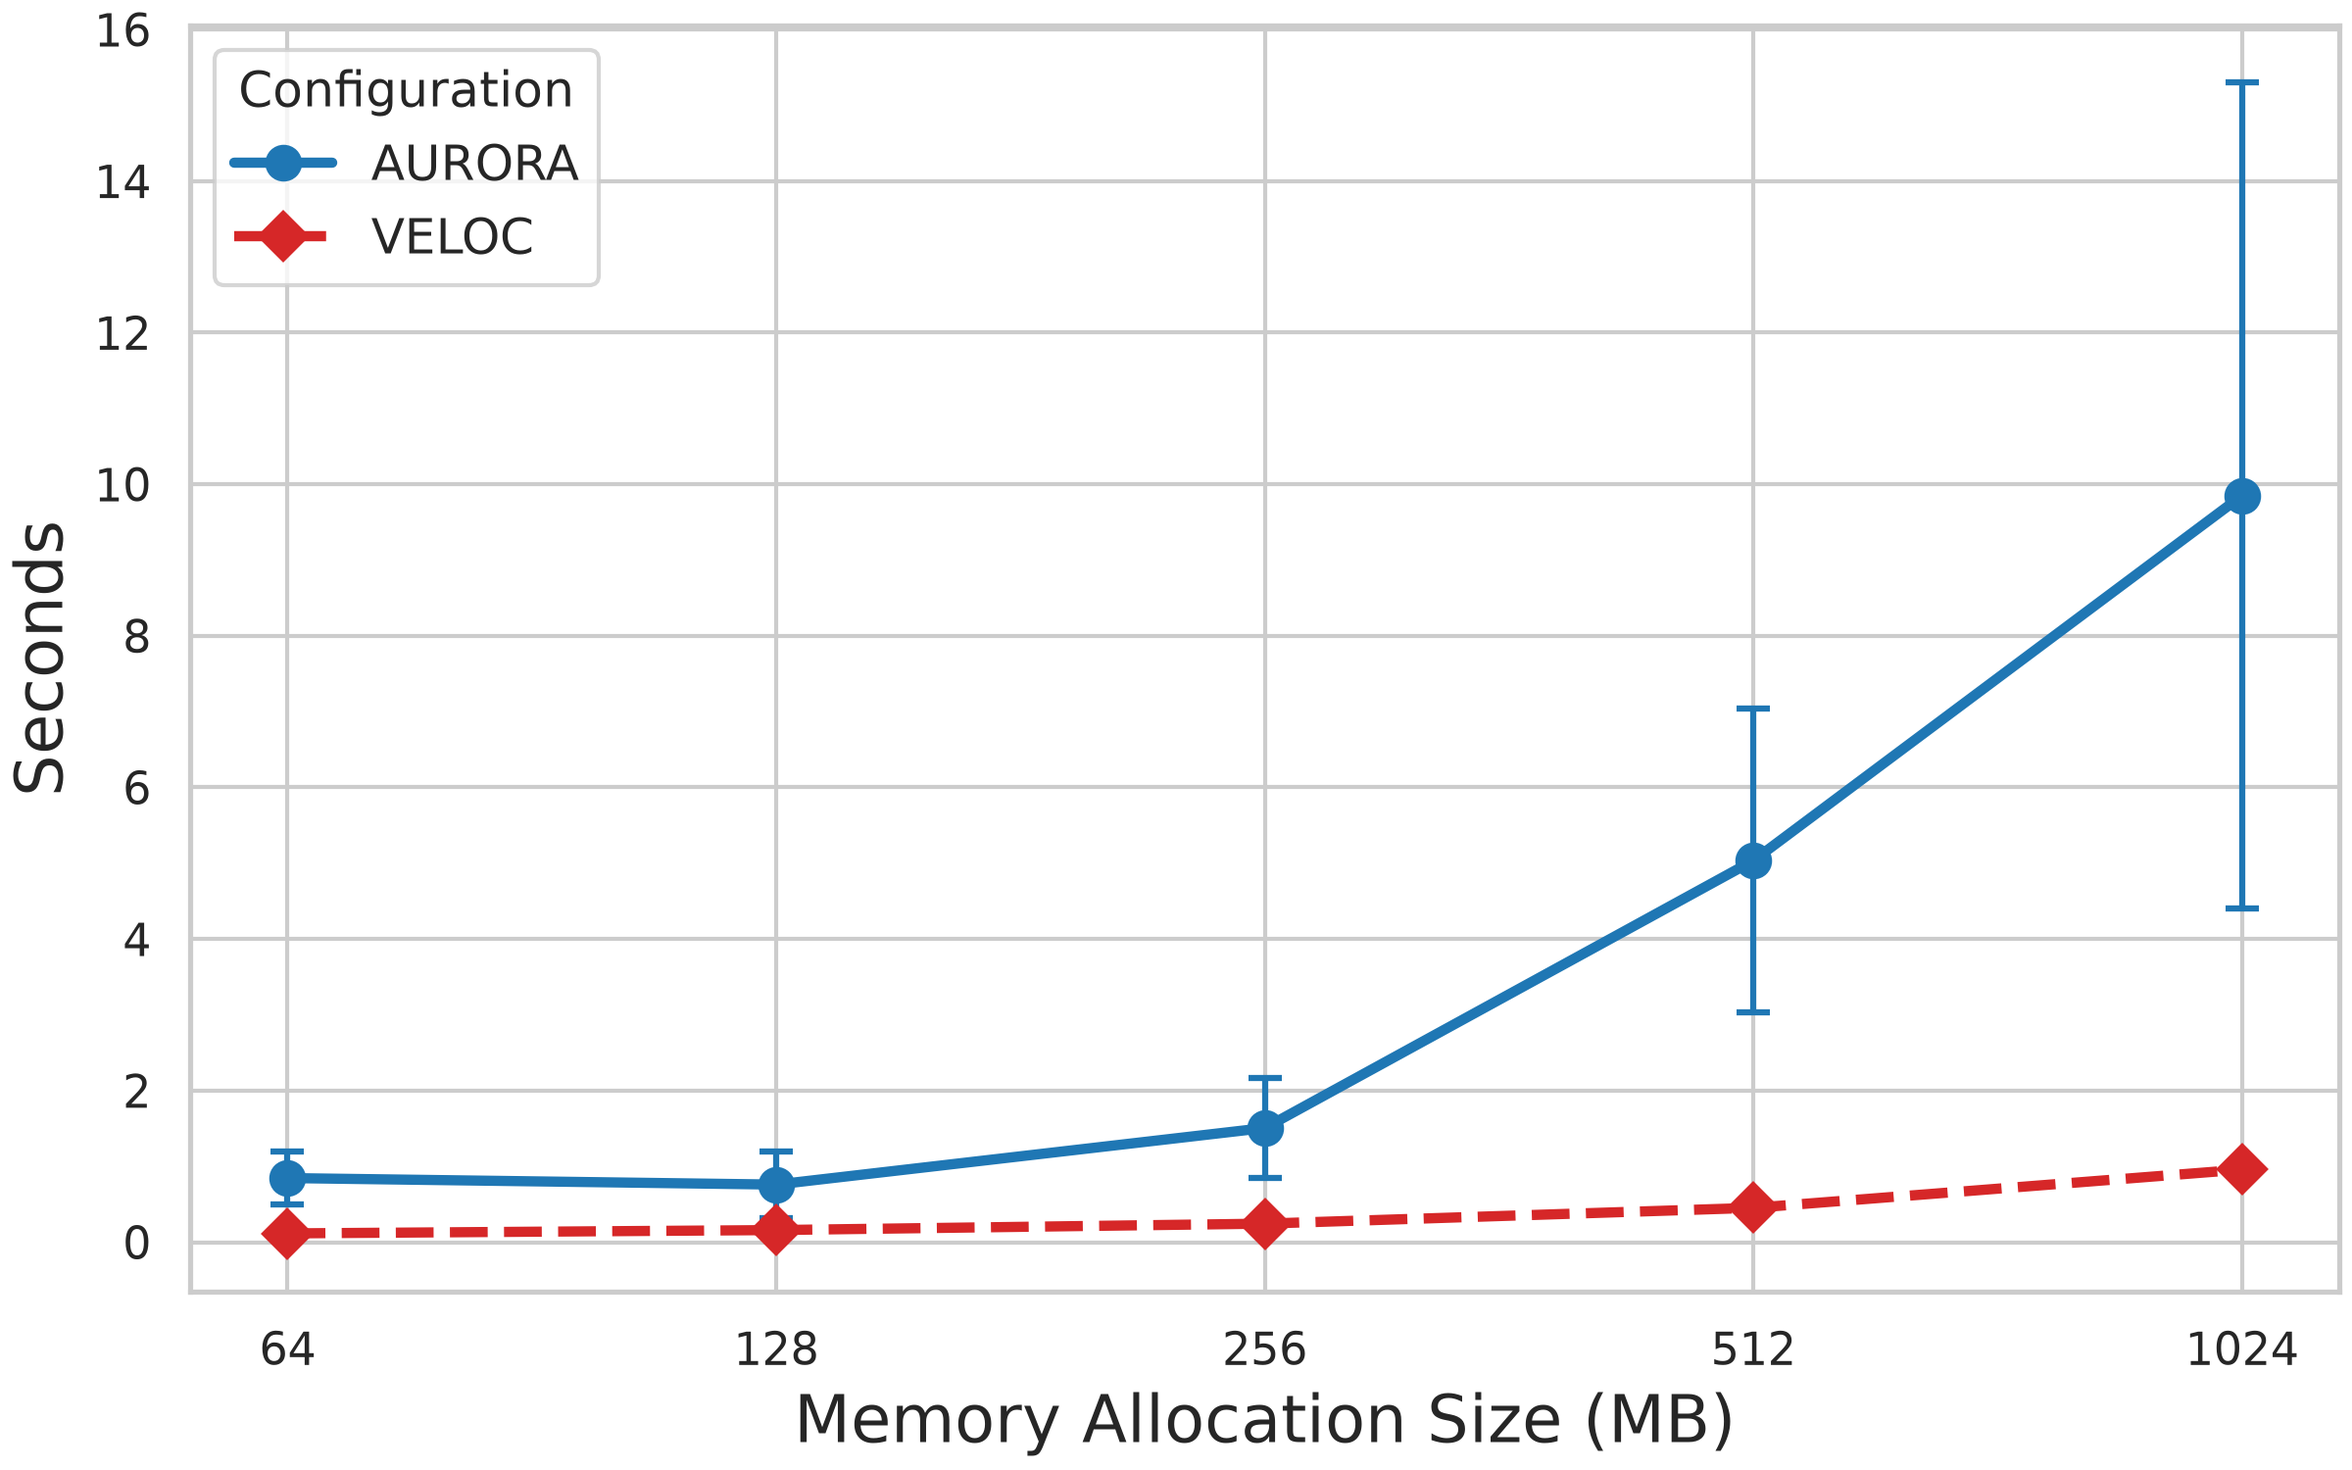
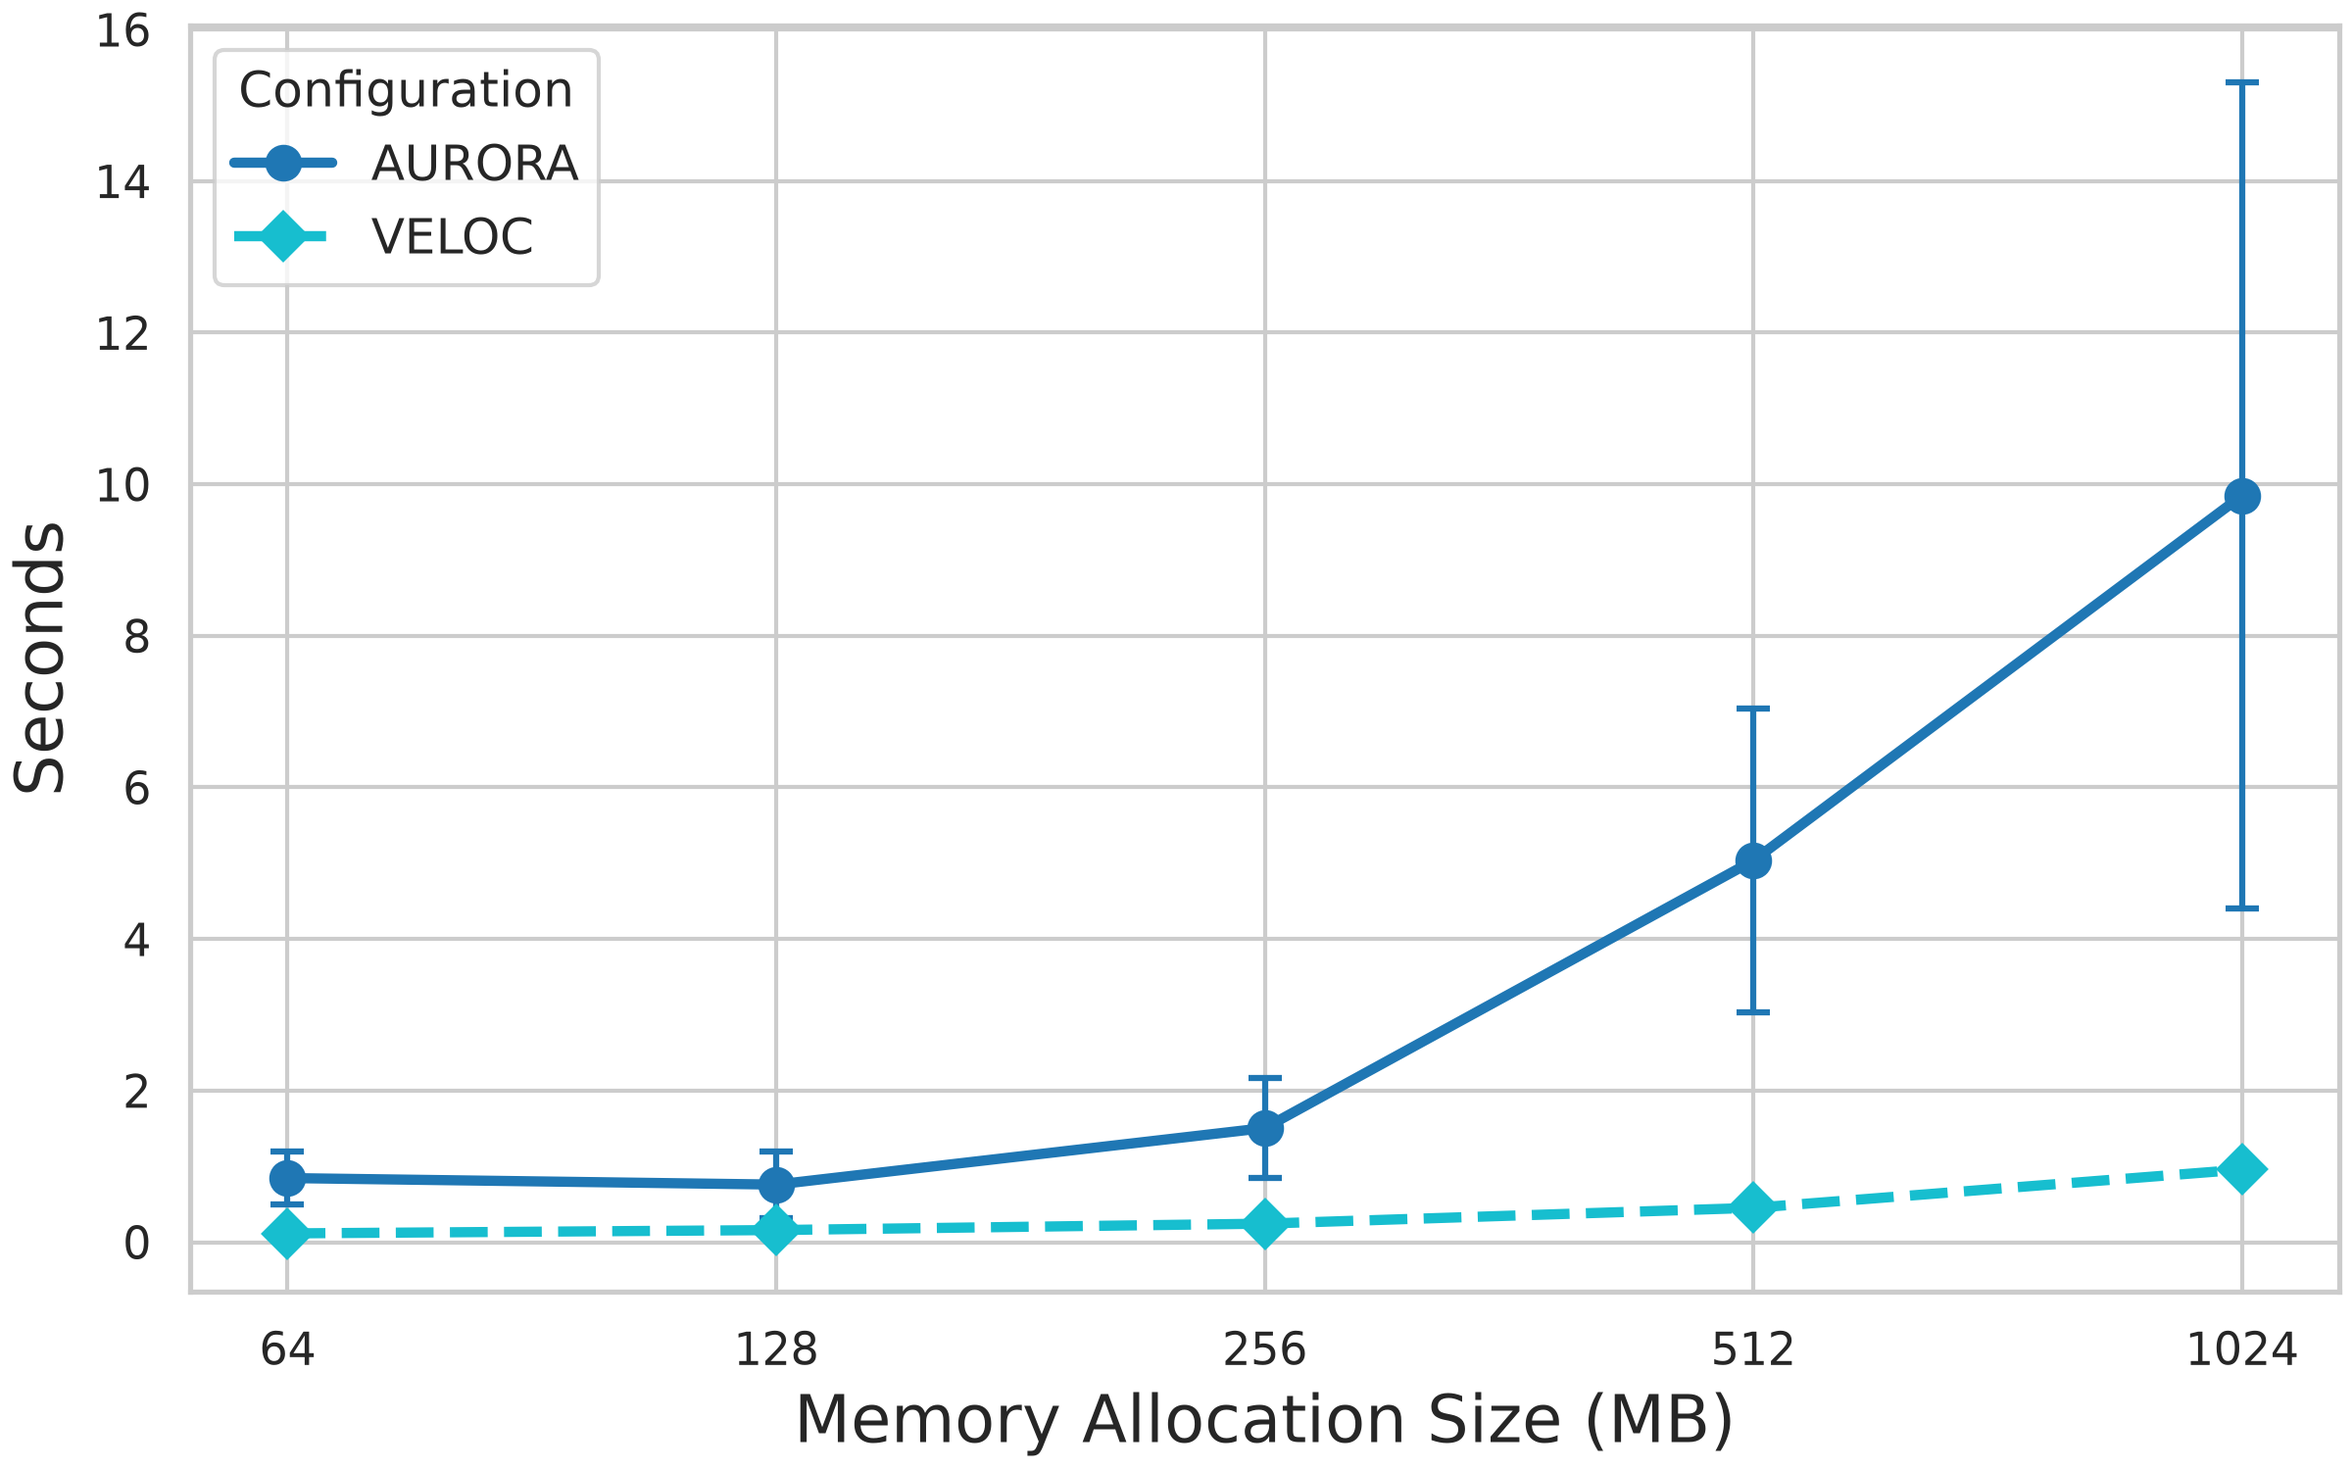
wip

Changed region(s): [[0.0938, 0.7973, 0.5938, 0.8587], [0.625, 0.7667, 0.9688, 0.828], [0.0938, 0.1533, 0.1562, 0.184]]

diff --git a/common/src/afv/afv_checkpoint.c b/common/src/afv/afv_checkpoint.c
@@ -15,21 +15,19 @@
 
 #include "log.h"
 
+#include <assert.h>
 #include <malloc.h>
+#include <memory.h>
 
-afv_checkpoint_t *afv_checkpoint_open(afv_hndl *pHndl,
-                                      afv_metadata_t *pMetadata,
-                                      const char mode) {
-    if (!pHndl) {
+afv_checkpoint_t *afv_checkpoint_open(afv_hndl *pAFV, int64_t version,
+                                      const char *name, size_t n_regions,
+                                      const eAFVC_mode mode) {
+    if (!pAFV) {
         log_error("NULL Parameter");
         return NULL;
     }
-    if (!pMetadata) {
-        log_error("NULL Parameter");
-        return NULL;
-    }
-    if (mode != 'r' && mode != 'w') {
-        log_error("Invalid Mode Option %c not in (r, w)", mode);
+    if (mode >= eAFVC_N_MODE) {
+        log_error("Invalid Mode Option");
         return NULL;
     }
 
@@ -39,20 +37,234 @@ afv_checkpoint_t *afv_checkpoint_open(afv_hndl *pHndl,
         return NULL;
     }
 
-    pCheckpoint->pAFV = pHndl;
-    pCheckpoint->region_last_accessed = ((uint64_t) (-1));
+    memset(pCheckpoint, 0, sizeof(afv_checkpoint_t));
+
+    pCheckpoint->pAFV = pAFV;
     *((char *) &pCheckpoint->file_mode) = mode;
-    pCheckpoint->pMetdata = pMetadata;
+    pCheckpoint->file_offset = 0;
+    pCheckpoint->region_last_id = ((uint64_t) (-1));
+    pCheckpoint->region_last_index = 0;
+    pCheckpoint->region_offset = 0;
+
+    assert(mode < eAFVC_N_MODE);
+    switch (mode) {
+    case eAFVC_MODE_R:
+        pCheckpoint->pMetdata =
+            (afv_metadata_t *) afv_get_metadata_versioned(pAFV, version, name);
+        if (!pCheckpoint->pMetdata) {
+            log_error("Failed to open checkpoint metadata");
+            goto CHECKPOINT_OPEN_FILE_FAIL;
+        }
+        if (pCheckpoint->pMetdata->n_regions != n_regions) {
+            log_error("Checkpoint Region mismatch");
+            goto CHECKPOINT_OPEN_FILE_FAIL;
+        }
+        pCheckpoint->pFile = afv_file_open_r(pAFV, pCheckpoint->pMetdata);
+        break;
+    case eAFVC_MODE_W:
+        pCheckpoint->pMetdata = afv_create_metadata(n_regions);
+        pCheckpoint->pFile = afv_file_open_w(pAFV, version, name);
+        break;
+    case eAFVC_N_MODE:
+        break;
+    }
+
+    return pCheckpoint;
+
+CHECKPOINT_OPEN_FILE_FAIL:
+    afv_destroy_metadata(&pCheckpoint->pMetdata);
+    if (pCheckpoint) {
+        free(pCheckpoint);
+        pCheckpoint = NULL;
+    }
+    return NULL;
 }
 
-size_t afv_checkpoint_read(afv_checkpoint_t *pCheckpoint, uint64_t region_id,
-                           size_t region_offset, void *dst, size_t size) {
+eAFV_file_error _afv_checkpoint_autoseek(afv_checkpoint_t *pCheckpoint,
+                                         const uint64_t region_id,
+                                         const size_t region_offset) {
+    // Load the new region index
+    size_t file_offset = pCheckpoint->file_offset;
+    if (pCheckpoint->region_last_id != region_id) {
+        uint64_t region_index = 0;
+        // Block offset inside of file (sum of previous blocks)
+        file_offset = 0;
+        for (; region_index < pCheckpoint->pMetdata->n_regions;
+             region_index++) {
+            file_offset += pCheckpoint->pMetdata->region_sizes[region_index];
+            if (pCheckpoint->pMetdata->region_sizes[region_index] ==
+                region_id) {
+                break;
+            }
+        }
+        if (region_index >= pCheckpoint->pMetdata->n_regions) {
+            log_error("Invalid Region");
+            return eAFV_FILE_ERR_RW;
+        }
+
+        // Save position
+        pCheckpoint->region_last_index = region_index;
+        pCheckpoint->region_last_id = region_id;
+        pCheckpoint->file_offset = file_offset;
+
+        // Move active pointer
+        size_t seek_ptr = file_offset + region_offset;
+        afv_file_seek(pCheckpoint->pFile, seek_ptr);
+    }
+    // Check for only offset changes
+    else if (pCheckpoint->region_offset != region_offset) {
+        size_t seek_ptr = file_offset + region_offset;
+        afv_file_seek(pCheckpoint->pFile, seek_ptr);
+    }
+
+    return eAFV_FILE_OK;
 }
 
-afv_checkpoint_t *afv_checkpoint_write(afv_checkpoint_t *pCheckpoint,
-                                       uint64_t region_id, size_t region_offset,
-                                       void *src, size_t size) {
+size_t afv_checkpoint_read(afv_checkpoint_t *pCheckpoint,
+                           const uint64_t region_id, const size_t region_offset,
+                           void *dst, size_t size) {
+    if (!pCheckpoint) {
+        log_error("NULL Parameter");
+        return 0;
+    }
+
+    assert(pCheckpoint->file_mode == eAFVC_MODE_R);
+
+    // Load the new region index
+    eAFV_file_error afv_status =
+        _afv_checkpoint_autoseek(pCheckpoint, region_id, region_offset);
+    if (afv_status != eAFV_FILE_OK) {
+        log_error("AFV Error %d", afv_status);
+        return 0;
+    }
+
+    // Handle read overflows
+    uint64_t region_index = pCheckpoint->region_last_index;
+    if ((region_offset + size) >
+        pCheckpoint->pMetdata->region_sizes[region_index]) {
+        log_warn("Read Overflow");
+        size =
+            pCheckpoint->pMetdata->region_sizes[region_index] - region_offset;
+    }
+
+    afv_status = afv_file_read(pCheckpoint->pFile, dst, size);
+    if (afv_status != eAFV_FILE_OK) {
+        log_error("AFV Error %d", afv_status);
+        return 0;
+    }
+
+    // Save new offset as read + bytes_read
+    pCheckpoint->region_offset = region_offset + size;
+
+    // Return bytes read
+    return size;
 }
 
-afv_checkpoint_t *afv_checkpoint_close(afv_checkpoint_t *pCheckpoint) {
+size_t afv_checkpoint_write(afv_checkpoint_t *pCheckpoint,
+                            const uint64_t region_id,
+                            const size_t region_offset, const void *const src,
+                            size_t size) {
+
+    if (!pCheckpoint) {
+        log_error("NULL Parameter");
+        return 0;
+    }
+
+    assert(pCheckpoint->file_mode == eAFVC_MODE_W);
+
+    // Load the new region index
+    eAFV_file_error afv_status =
+        _afv_checkpoint_autoseek(pCheckpoint, region_id, region_offset);
+    if (afv_status != eAFV_FILE_OK) {
+        log_error("AFV Error %d", afv_status);
+        return 0;
+    }
+
+    // Write out new region data
+    uint64_t region_index = pCheckpoint->region_last_index;
+    pCheckpoint->pMetdata->region_sizes[region_index] += size;
+
+    afv_status = afv_file_write(pCheckpoint->pFile, src, size);
+    if (afv_status != eAFV_FILE_OK) {
+        log_error("AFV Error %d", afv_status);
+        return 0;
+    }
+
+    // Save new offset as read + bytes_read
+    pCheckpoint->region_offset = region_offset + size;
+
+    // Return bytes read
+    return size;
+}
+
+long int afv_checkpoint_add_region(afv_checkpoint_t *pCheckpoint,
+                                   const uint64_t region_id,
+                                   const char name[AFV_RGN_NAME_LEN]) {
+    if (!pCheckpoint) {
+        log_error("NULL Parameter");
+        return -1;
+    }
+    uint64_t region_index = 0;
+    // Block offset inside of file (sum of previous blocks)
+    for (; region_index < pCheckpoint->pMetdata->n_regions; region_index++) {
+        if (pCheckpoint->pMetdata->region_sizes[region_index] ==
+            ((uint64_t) (-1))) {
+            break;
+        }
+    }
+    if (region_index == pCheckpoint->pMetdata->n_regions) {
+        log_error("No Free Region Slots");
+        return -2;
+    }
+
+    pCheckpoint->pMetdata->region_ids[region_index] = region_id;
+    pCheckpoint->pMetdata->region_sizes[region_index] = 0;
+    char *rgn_name = pCheckpoint->pMetdata->region_names[region_index];
+    (void) memcpy(rgn_name, name, AFV_RGN_NAME_LEN);
+
+    // Return the metadata index (should match region index)
+    return (long int) region_index;
+}
+
+eAFV_file_error afv_checkpoint_close(afv_checkpoint_t **ppCheckpoint) {
+    if (!ppCheckpoint) {
+        log_error("NULL Parameter");
+        return eAFV_FILE_NULL;
+    }
+    afv_checkpoint_t *pCheckpoint = *ppCheckpoint;
+    if (!pCheckpoint) {
+        log_error("NULL Parameter");
+        return eAFV_FILE_NULL;
+    }
+    eAFV_file_error afv_status = afv_file_close(&pCheckpoint->pFile);
+    if (afv_status != eAFV_FILE_OK) {
+        log_error("AFV File Error %d", afv_status);
+        return afv_status;
+    }
+
+    if (pCheckpoint->file_mode == eAFVC_MODE_W) {
+        afv_write_metadata(pCheckpoint->pAFV, pCheckpoint->pMetdata);
+        if (afv_status != eAFV_FILE_OK) {
+            log_error("AFV File Error %d", afv_status);
+            return afv_status;
+        }
+        pCheckpoint->pMetdata = NULL;
+    }
+
+    afv_checkpoint_free(ppCheckpoint);
+
+    return eAFV_FILE_OK;
+}
+
+void afv_checkpoint_free(afv_checkpoint_t **ppCheckpoint) {
+    if (!ppCheckpoint) {
+        return;
+    }
+    afv_checkpoint_t *pCheckpoint = *ppCheckpoint;
+    if (!pCheckpoint) {
+        return;
+    }
+    if (pCheckpoint->pMetdata) {
+        afv_destroy_metadata(&pCheckpoint->pMetdata);
+    }
 }

diff --git a/common/include/afv/afv_checkpoint.h b/common/include/afv/afv_checkpoint.h
@@ -23,42 +23,59 @@
 #define AFV_RESERVED_SIZE 2
 #endif
 
-#if AFV_RESERVED_SIZE < 3
-#error "AFV Checkpoint requires a larger reserved region"
-#endif
-
-struct __attribute__((packed)) aurora_file_versioning_checkpoint {
-#ifdef AFV_INTERNAL
-    afv_hndl *pAFV;
-    uint64_t region_last_accessed;
-    const char file_mode;
-    afv_metadata_t *pMetdata;
-    afv_file_hndl *pFile;
-#endif
+enum aurora_file_versioning_checkpoint_mode {
+    eAFVC_MODE_W,
+    eAFVC_MODE_R,
+    eAFVC_N_MODE,
 };
 
+struct aurora_file_versioning_checkpoint
+#ifdef AFV_INTERNAL
+{
+    afv_hndl *pAFV;
+    const enum aurora_file_versioning_checkpoint_mode file_mode;
+    size_t file_offset;
+    afv_metadata_t *pMetdata;
+    afv_file_hndl *pFile;
+    uint64_t region_last_id;
+    uint64_t region_last_index;
+    size_t region_offset;
+}
+#endif
+;
+
 typedef struct aurora_file_versioning_checkpoint afv_checkpoint_t;
+typedef enum aurora_file_versioning_checkpoint_mode eAFVC_mode;
 
 /**
  * @brief Loads the checkpoint file from its metadata
  *
  * @param pHndl AFV Handle (stored internally)
- * @param pMetadata Checkpoint Metadata (stored internally)
+ * @param version Version of Checkpoint to get
+ * @param name Checkpoint Name or NULL for `*`
+ * @param mode Opening Mode (eAFVC_MODE_R or W)
  * @return
  */
-extern afv_checkpoint_t *afv_checkpoint_open(afv_hndl *pHndl,
-                                             afv_metadata_t *pMetadata,
-                                             const char mode);
+extern afv_checkpoint_t *afv_checkpoint_open(afv_hndl *pAFV, int64_t version,
+                                             const char *name, size_t n_regions,
+                                             const eAFVC_mode mode);
 
 extern size_t afv_checkpoint_read(afv_checkpoint_t *pCheckpoint,
-                                  uint64_t region_id, size_t region_offset,
-                                  void *dst, size_t size);
+                                  const uint64_t region_id,
+                                  const size_t region_offset, void *dst,
+                                  size_t size);
 
-extern afv_checkpoint_t *afv_checkpoint_write(afv_checkpoint_t *pCheckpoint,
-                                              uint64_t region_id,
-                                              size_t region_offset, void *src,
-                                              size_t size);
+extern size_t afv_checkpoint_write(afv_checkpoint_t *pCheckpoint,
+                                   const uint64_t region_id,
+                                   const size_t region_offset,
+                                   const void *const src, const size_t size);
 
-extern afv_checkpoint_t *afv_checkpoint_close(afv_checkpoint_t *pCheckpoint);
+extern long int afv_checkpoint_add_region(afv_checkpoint_t *pCheckpoint,
+                                          const uint64_t region_id,
+                                          const char name[AFV_RGN_NAME_LEN]);
+
+extern eAFV_file_error afv_checkpoint_close(afv_checkpoint_t **pCheckpoint);
+
+extern void afv_checkpoint_free(afv_checkpoint_t **pCheckpoint);
 
 #endif

diff --git a/scripts/plotting/plot_heatdis_restore.py b/scripts/plotting/plot_heatdis_restore.py
@@ -132,7 +132,8 @@ def render_plot_variant(data_df, core_mode_label):
         data_df['Series_ID'] = data_df['Framework']
 
     # Custom styling
-    CUSTOM_PALETTE = ["#1f77b4", "#d62728", "#2ca02c", "#9467bd", "#17becf"]
+    # CUSTOM_PALETTE = ["#1f77b4", "#2ca02c", "#d62728",  "#9467bd", "#17becf"]
+    CUSTOM_PALETTE = ["#1f77b4", "#17becf", "#d62728",  "#d13262"]
     CUSTOM_MARKERS = ["o", "D", "^", "s", "*", "P"]
     CUSTOM_DASHES = ["-", "--", ":", "-.", (5, 2, 1, 2)]
 

diff --git a/common/src/afv/afv_metadata.c b/common/src/afv/afv_metadata.c
@@ -41,6 +41,10 @@ afv_metadata_t *afv_create_metadata(size_t n_regions) {
     pMetadata->version = 0;
     pMetadata->n_regions = n_regions;
 
+    for (size_t i = 0; i < n_regions; i++){
+        pMetadata->region_ids[i] = (-1);
+    }
+
     return afv_metadata_ptr_init(pMetadata);
 }
 
